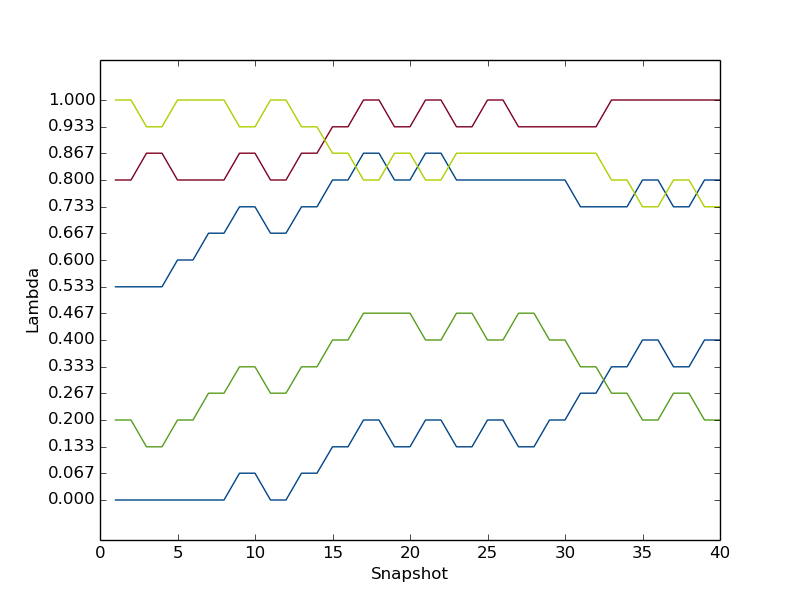
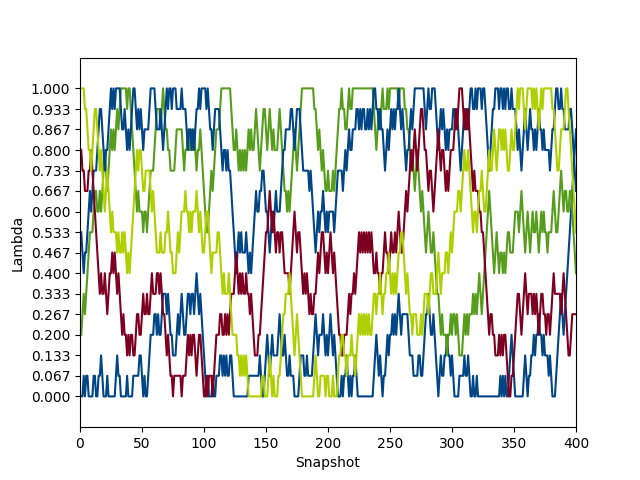
Updated the relative solvation tutorial

Changed region(s): [[0.0, 0.1562, 0.9062, 0.8438], [0.125, 0.875, 0.9375, 1.0], [0.125, 0.0938, 0.9062, 0.125]]

diff --git a/tutorial/rel_solvation/rel_solv.html b/tutorial/rel_solvation/rel_solv.html
@@ -24,7 +24,7 @@ However, for more complex molecules you may need to take additional care in prep
 <h5>Setup</h5>
 <p>
 We will start with a single topology approach. While conceptually this may be simpler, there are some careful choices that need to be made in setup, as you will see. The simplest way to start the setup of the simulation is by typing the following:</p>
-<pre>python2.7 $PROTOMSHOME/protoms.py -s singletopology -l ethane.pdb methanol.pdb </pre>
+<pre>python $PROTOMSHOME/protoms.py -s singletopology -l ethane.pdb methanol.pdb </pre>
 <p>
 <i>How to choose corresponding atoms</i></p>
 <p>
@@ -61,12 +61,12 @@ This is most conveniently done on a computer cluster. If you run all 6 calculati
 <h5>Analysis</h5>
 When the simulations are finished you need to analyse the simulation and extract the free energy of the free and gas phase legs. We will start with looking at some energy series to investigate whether the simulations are converged. Type
 <pre>
-python2.7 $PROTOMSHOME/tools/calc_series.py -f out_comb_free/lam-0.000/results
+python $PROTOMSHOME/tools/calc_series.py -f out_comb_free/lam-0.000/results
 </pre>
 to look at time series for the free leg at &lambda;=0.0. In the wizard that appears you can type <code>total</code> followed by enter twice. This will plot the total energy as a function of simulation snapshot. It should look something like this:</p>
 <img src="comb_free_total.png" width="406" height="306" alt="Combined total" />
 <p>The program will also give you some indicating on the statistical equilibration of this time series. You should see equilibration fairly early on - in fact in this case we can see that the average total energy is fairly flat throughout, and the simulation is treated as equilibrated all the way through. 
-Thus, we have to discard very little of the simulation when we compute the free energy. If you wish, you can check this by visualising a running or moving average too - type <code>python2.7 $PROTOMSHOME/tools/calc_series.py -h</code> 
+Thus, we have to discard very little of the simulation when we compute the free energy. If you wish, you can check this by visualising a running or moving average too - type <code>python $PROTOMSHOME/tools/calc_series.py -h</code> 
 to see instructions for using the options to do this.</p>
 <p>Finally, we said we would compare the combined, ele and vdw protocols so perform the same analysis on the results files in <code>out_ele_free</code> and <code>out_vdw_free</code>. You should again see equilibration very near the beginning of the simulation - this perturbation is fairly 'well behaved'.</p>
 <p>Next, we will analyse how effective the &lambda; replica exchange was. Open up the simulation info file in your favourite text editor, e.g.:</p>
@@ -75,12 +75,12 @@ nano out_comb_free/lam-0.000/info
 </pre>
 <p>
 Somewhere near the bottom of the file you will find a line that looks something like this:</p>
-<pre>Attempted/successful lambda swaps:   1502  1139 (  75.832%)</pre>
+<pre>Attempted/successful lambda swaps for lambdaladder   1 :   2986  2304 (  77.160%)</pre>
 <p>
 Indicating that the overall acceptance rate for the &lambda; swaps was around 75% - quite high, indicating a good overlap between neighbouring &lambda;-windows. If you find the same statistics for the separate ele and vdw perturbations 
 you may find that they show even higher ratios (though to be certain of this we would need to run more repeats). Now let's have a look at the paths of individual replicas during the simulation:</p>
 <pre>
-python2.7 $PROTOMSHOME/tools/calc_replicapath.py -f out_comb_free/lam-*/results -p 1.0 0.8 0.533 0.2 0.0 -o replica_path_comb.png
+python $PROTOMSHOME/tools/calc_replicapath.py -f out_comb_free/lam-*/results -p 1.0 0.8 0.533 0.2 0.0 -o replica_path_comb.png
 </pre>
 <p>
 You'll see something like this:<br>
@@ -94,22 +94,23 @@ Finally, let's estimate the free energy. We will do this using a variety of meth
 Remember that with the a single topology protocol we need to evaluate the free energy change for both the free leg and the gas phase leg, plugging the results into the sum identified by the thermodynamic cycle below:</p>
 <img src="thermo_cycle.png" width="416" height="291" alt="Thermodynamic cycle" />
 <p>
-For the calculations, let's start with the combined protocol. As we've seen, the simulation equilibrates fairly rapidly, so let's skip only the first 10 blocks of data:</p>
+For the calculations, let's start with the combined protocol. As we've seen, the simulation equilibrates fairly rapidly, so let's skip only the first 10 blocks of data, (corresponding to 2.5 % of the simulation):</p>
 <pre>
-python2.7 $PROTOMSHOME/tools/calc_dg.py -d out_comb_free/ -s 10
-python2.7 $PROTOMSHOME/tools/calc_dg.py -d out_comb_gas/ -s 10
+python $PROTOMSHOME/tools/calc_dg.py -d out_comb_free/ -l 0.025
+python $PROTOMSHOME/tools/calc_dg.py -d out_comb_gas/ -l 0.025
 </pre>
 <p>
-We end up with a &Delta;G for the free leg of roughly -3.1 kcal mol<sup>-1</sup>, and for the gas leg of +3.1 kcal mol<sup>-1</sup>, giving a total &Delta;&Delta;G between methanol and ethane of -6.2 kcal mol<sup>-1</sup>. Repeat the same calculations for the separate ele and vdw protocols:</p>
+We end up with a &Delta;G for the free leg of roughly -3.0 kcal mol<sup>-1</sup>, and for the gas leg of +2.9 kcal mol<sup>-1</sup>, giving a total &Delta;&Delta;G between methanol and ethane of -5.9 kcal mol<sup>-1</sup>. Repeat the same calculations for the separate ele and vdw protocols:</p>
 <pre>
-python2.7 $PROTOMSHOME/tools/calc_dg.py -d out_ele_free/ -s 10
-python2.7 $PROTOMSHOME/tools/calc_dg.py -d out_vdw_free/ -s 10
-python2.7 $PROTOMSHOME/tools/calc_dg.py -d out_ele_gas/ -s 10
-python2.7 $PROTOMSHOME/tools/calc_dg.py -d out_vdw_gas/ -s 10
+python $PROTOMSHOME/tools/calc_dg.py -d out_ele_free/ -l 0.025 
+python $PROTOMSHOME/tools/calc_dg.py -d out_vdw_free/ -l 0.025 
+python $PROTOMSHOME/tools/calc_dg.py -d out_ele_gas/ -l 0.025
+python $PROTOMSHOME/tools/calc_dg.py -d out_vdw_gas/ -l 0.025
 </pre>
 <p>
-This time the free legs (the sum of the ele and vdw contributions) have a &Delta;G of -2.8 kcal mol<sup>-1</sup> and the gas legs of +3.1 kcal mol<sup>-1</sup>, giving a total &Delta;&Delta;G of -5.9 kcal mol<sup>-1</sup>. 
-So you can see that although the end results are very similar, there are some slight differences between the protocols, particularly in the solvated (free) leg.</p>
+Again, we observe &Delta;G values of -3.0 kcal mol<sup>-1</sup> and +2.9 kcal mol<sup>-1</sup> for the free and gas legs (by summing the electrostatic and van der Waals contributions), respectively.
+This results in a total &Delta;&Delta;G value of -5.9 kcal mol<sup>-1</sup>, which is in agreement with the result obtained from the combined path.
+The agreement between individual observations may vary, hence it is strongly recommended to analyse multiple repeats, rather than the single simulation analysed here.</p>
 <p>Now, let's try the equivalent dual topology simulation, which you should find simpler to set up.</p>
 <hr align="center"/>
 <p> 
@@ -121,7 +122,7 @@ However, this does not always mean that results will be more accurate or more pr
 <h5>Setup</h5>
 <p>
 To set up the dual topology simulation type:</p>
-<pre>python2.7 $PROTOMSHOME/protoms.py -s dualtopology -l ethane.pdb methanol.pdb </pre>
+<pre>python $PROTOMSHOME/protoms.py -s dualtopology -l ethane.pdb methanol.pdb </pre>
 <p>
 You'll notice that only a single <code>run_free.cmd</code> input file is produced, as we no longer need gas phase simulations.
 </p>
@@ -132,14 +133,14 @@ Running the simulation will take approximately 2-3 hours on a cluster. Like the 
 mpirun -np 16 $PROTOMSHOME/protoms3 run_free.cmd
 </pre>
 <p>
-After the runs are complete you should carry out the analysis similarly to the single topology simulation above. You'll obtain a free energy change for the free leg of roughly -6.9 kcal mol<sup>-1</sup>. Remember that for dual topology this corresponds directly to the &Delta;&Delta;G between the two solutes.</p>
+After the runs are complete you should carry out the analysis similarly to the single topology simulation above. You'll obtain a free energy change for the free leg of roughly -6.1 kcal mol<sup>-1</sup>. Remember that for dual topology this corresponds directly to the &Delta;&Delta;G between the two solutes.</p>
 <p>
-Our value of -6.9 kcal mol<sup>-1</sup> is also remarkably close to the experimental &Delta;&Delta;G for these solutes, which is 6.90 kcal mol<sup>-1</sup>. However, to be certain of our results and obtain reliable error bars we need to perform more repeats, and potentially investigate other protocols.</p>
+It should be noted that the experimental &Delta;&Delta;G for these solutes is -6.90 kcal mol<sup>-1</sup>. However, to be certain of our results and obtain reliable error bars we need to perform more repeats, and potentially investigate other protocols.</p>
 <hr align="center"/>
 <p>
 <h3>Exploring more options</h3>
 Above, we've simply chose to set up our simulation with the default options chosen by protoms.py. If you type:
-<pre>python2.7 $PROTOMSHOME/protoms.py --fullhelp</pre>
+<pre>python $PROTOMSHOME/protoms.py --fullhelp</pre>
 ...you can see that there are <i>many</i> different options you can define manually to explore your simulation further! A few examples are given below.
 
 <h5>Running longer simulations</h5>
@@ -150,18 +151,18 @@ There are two arguments that you can invoke to run a longer simulation
 </ul>  
 by typing for instance
 <pre>
-python2.7 $PROTOMSHOME/protoms.py -s singletopology -l ethane.pdb methanol.pdb --nequil 50E6 --nprod 100E6
+python $PROTOMSHOME/protoms.py -s singletopology -l ethane.pdb methanol.pdb --nequil 50E6 --nprod 100E6
 </pre>
 you will run 50 m equilibration steps and 100 m production steps (instead of the 5 m and 40 m that is default). This may be useful to see if our simulation really is equilibrated after a short number of moves, as it seems above.
 <p>
 <h5>Running with more (or fewer) &lambda;-values</h5>
 We seem to have good overlap between our &lambda;-windows based on the acceptance rates of the replica exchange swaps. Perhaps you'd like to see if we could get equivalent results with fewer windows in order to make our use of CPU time more efficient?
 The argument that controls the number of &lambda;-values is called <code>--lambdas</code>. By typing (for instance):
-<pre>python2.7 $PROTOMSHOME/protoms.py -s singletopology -l ethane.pdb methanol.pdb --lambdas 12</pre>
+<pre>python $PROTOMSHOME/protoms.py -s singletopology -l ethane.pdb methanol.pdb --lambdas 12</pre>
 
 you will initiate 12 &lambda;-values rather than default 16. You can also give individual &lambda;-values to the argument. For instance:
 <p>
-<pre>python2.7 $PROTOMSHOME/protoms.py -s singletopology -l ethane.pdb methanol.pdb --lambdas 0.00 0.05 0.10 0.20 0.30 0.40 0.50 0.60 0.70 0.80 0.90 0.95 1.00</pre>
+<pre>python $PROTOMSHOME/protoms.py -s singletopology -l ethane.pdb methanol.pdb --lambdas 0.00 0.05 0.10 0.20 0.30 0.40 0.50 0.60 0.70 0.80 0.90 0.95 1.00</pre>
 <p> 
 will create a total of 13 lambda windows using the spacing defined.
 <p>
@@ -169,13 +170,13 @@ will create a total of 13 lambda windows using the spacing defined.
 Usually it is wise to run several independent repeats of your calculation to check for convergence and to obtain a good estimate of the statistical uncertainty. The argument that controls the number of independent repeats is called <code>--repeats</code> or just <code>-r</code>.
 <p>
 by typing for instance:
-<pre>python2.7 $PROTOMSHOME/protoms.py -s singletopology -l ethane.pdb methanol.pdb -r 5</pre>
+<pre>python $PROTOMSHOME/protoms.py -s singletopology -l ethane.pdb methanol.pdb -r 5</pre>
 you will create 5 input files that will create 5 output folders. But remember, you also need to execute ProtoMS 5 times with the different input files. The output folders will be named e.g. <code>out1_comb_free</code>, <code>out2_comb_free</code>...
 <p>
 </p>
 <h5>Running with a different water model</h5>
 <p>By default, protoms.py solvates systems using the TIP4P water model. Simulations can also be performed with the TIP3P model by using the <code>--watmodel</code> flag:</p>
-<pre>python2.7 $PROTOMSHOME/protoms.py -s singletopology -l ethane.pdb methanol.pdb --watmodel tip3p</pre>
+<pre>python $PROTOMSHOME/protoms.py -s singletopology -l ethane.pdb methanol.pdb --watmodel tip3p</pre>
 Alternatively you may wish to solvate the solute using a different pre-equilibrated water box, or create a box of different dimensions. This can be done using the individual solvate script in the <a href="#tools">tools</a> section.
 <p>
 <hr align="center"/>
@@ -213,10 +214,10 @@ softcoreparams coul 1 delta 0.2 deltacoul 2.0 power 6 soft66
 this section sets up a dual topology simulation with appropriate soft-core parameters. It could be worth trying to optimize the soft-core parameters if your simulation is not performing well. 
 <p>  
 <pre>
-lambdare 200000 0.000 0.067 0.133 0.200 0.267 0.333 0.400 0.467 0.533 0.600 0.667 0.733 0.800 0.867 0.933 1.000
+lambdare 100000 0.000 0.067 0.133 0.200 0.267 0.333 0.400 0.467 0.533 0.600 0.667 0.733 0.800 0.867 0.933 1.000
 </pre>
 <br>
-this section sets up the &lambda;-replica exchange every 200000 steps. You can add more &lambda;-values manually if there are regions where the simulation is not performing well.
+this section sets up the &lambda;-replica exchange every 100,000 steps. You can add more &lambda;-values manually if there are regions where the simulation is not performing well.
 <hr align="center"/>
 <p> 
 <h3><a name="tools">Setting up the simulation with individual tools</a></h3>
@@ -230,26 +231,26 @@ We will start setting up the solute.
 <p>
 <li>Thereafter, we will create the force field for the ethane molecule using AmberTools, the GAFF force field and AM1-BCC charges. Type:
 <p>
-<pre>python2.7 $PROTOMSHOME/tools/ambertools.py -f ethane.pdb -n ETH</pre>
+<pre>python $PROTOMSHOME/tools/ambertools.py -f ethane.pdb -n ETH</pre>
 <p>
 This will execute the AmberTools programs <code>antechamber</code> and <code>parmchk</code>, creating the files <code>ethane.prepi</code> and <code>ethane.frcmod</code>, respectively. If the ligand was charged, we could specify that here using the <code>-c</code> flag.
 <p>
 <li>These files are in Amber format and in order to use them in ProtoMS we need to reformat them into a ProtoMS template file. This file will also contain a z-matrix that describes how ethane will be sampled during the simulation. This is what we checked earlier to identify which atoms we should mutate to dummies. To do this, you can type
 <p>
-<pre>python2.7 $PROTOMSHOME/tools/build_template.py -p ethane.prepi -f ethane.frcmod -o ethane.tem -n ETH</pre>
+<pre>python $PROTOMSHOME/tools/build_template.py -p ethane.prepi -f ethane.frcmod -o ethane.tem -n ETH</pre>
 <p>
 This will create the files <code>ethane.tem</code> (the ProtoMS template file) and <code>ethane.zmat</code> (the ProtoMS z-matrix). It is a good idea to check the latter to see if the script has defined the molecule properly.
 <p>
 <li>The next thing we will do is to solvate the solute in a box of TIP4P water molecules. Type:
 <p>
-<pre>python2.7 $PROTOMSHOME/tools/solvate.py -b $PROTOMSHOME/data/wbox_tip4p.pdb -s ethane.pdb -o ethane_box.pdb</pre>
+<pre>python $PROTOMSHOME/tools/solvate.py -b $PROTOMSHOME/data/wbox_tip4p.pdb -s ethane.pdb -o ethane_box.pdb</pre>
 <p> 
 As standard this will create a box of mimimum 10 A distance between the solute and the edge of the box. The padding of the box from the solute can be increased using the <code>--padding</code> or <code>-p</code> option.
 Likewise a different pre-equilibrated box can be used by specifying the location using the <code>-b</code> flag. The output is written to the file <code>ethane_box.pdb</code>. As only one box is needed for our simulation, we don't need a <code>methanol_box.pdb</code>, but if you make one then ensure it is identical to that for ethane.
 <p> 
 <li>Now we have set up ethane, repeat the relevant steps for methanol. Finally, we need to combine the template file of ethane with the template file of methanol, and make combined templates for the single topology protocols. Type:
 <p> 
-<pre>python2.7 $PROTOMSHOME/tools/make_single.py -t0 ethane.tem -t1 methanol.tem -p0 ethane.pdb -p1 methanol.pdb -m single_cmap.dat -o ethtmeo</pre>
+<pre>python $PROTOMSHOME/tools/make_single.py -t0 ethane.tem -t1 methanol.tem -p0 ethane.pdb -p1 methanol.pdb -m single_cmap.dat -o ethtmeo</pre>
 <p> 
 creating <code>ethtmeo_comb.tem</code>, <code>ethtmeo_ele.tem</code> and <code>ethtmeo_vdw.tem</code>. Note that this also requires the <code>single_cmap.dat</code> text file, which contains a table (2 columns, n rows) of corresponding ethane atoms in methanol. Dummies are denoted by DUM.</p>
 <p>
@@ -257,7 +258,7 @@ Now we have all the files except the ProtoMS input file itself. As you may have 
 <h5>Making ProtoMS input files</h5>
 To make the input files for ProtoMS type
 <p>
-<pre>python2.7 $PROTOMSHOME/tools/generate_input.py -s singletopology -l ethane.pdb methanol.pdb -t ethtmeo_comb.tem -lw ethane_box.pdb -o run_comb</pre>
+<pre>python $PROTOMSHOME/tools/generate_input.py -s singletopology -l ethane.pdb methanol.pdb -t ethtmeo_comb.tem -lw ethane_box.pdb -o run_comb</pre>
 <p> 
 creating <code>run_comb_free.cmd</code> and <code>run_comb_gas.cmd</code>. You will need to run <code>generate_input.py</code> again to create equivalent inputs for the separate ele and vdw perturbations.
 </BODY>

diff --git a/tools/calc_replicapath.py b/tools/calc_replicapath.py
@@ -146,6 +146,7 @@ if __name__ == '__main__':
             plt.plot(x, path, color=simulationobjects.color(i))
     psorted = sorted(args.plot)
     prange = max(psorted) - min(psorted)
+    plt.xlim([0, max(x)])
     plt.ylim([min(psorted) - 0.1 * prange, max(psorted) + 0.1 * prange])
     plt.yticks(labels)
     plt.ylabel(args.kind.capitalize())
